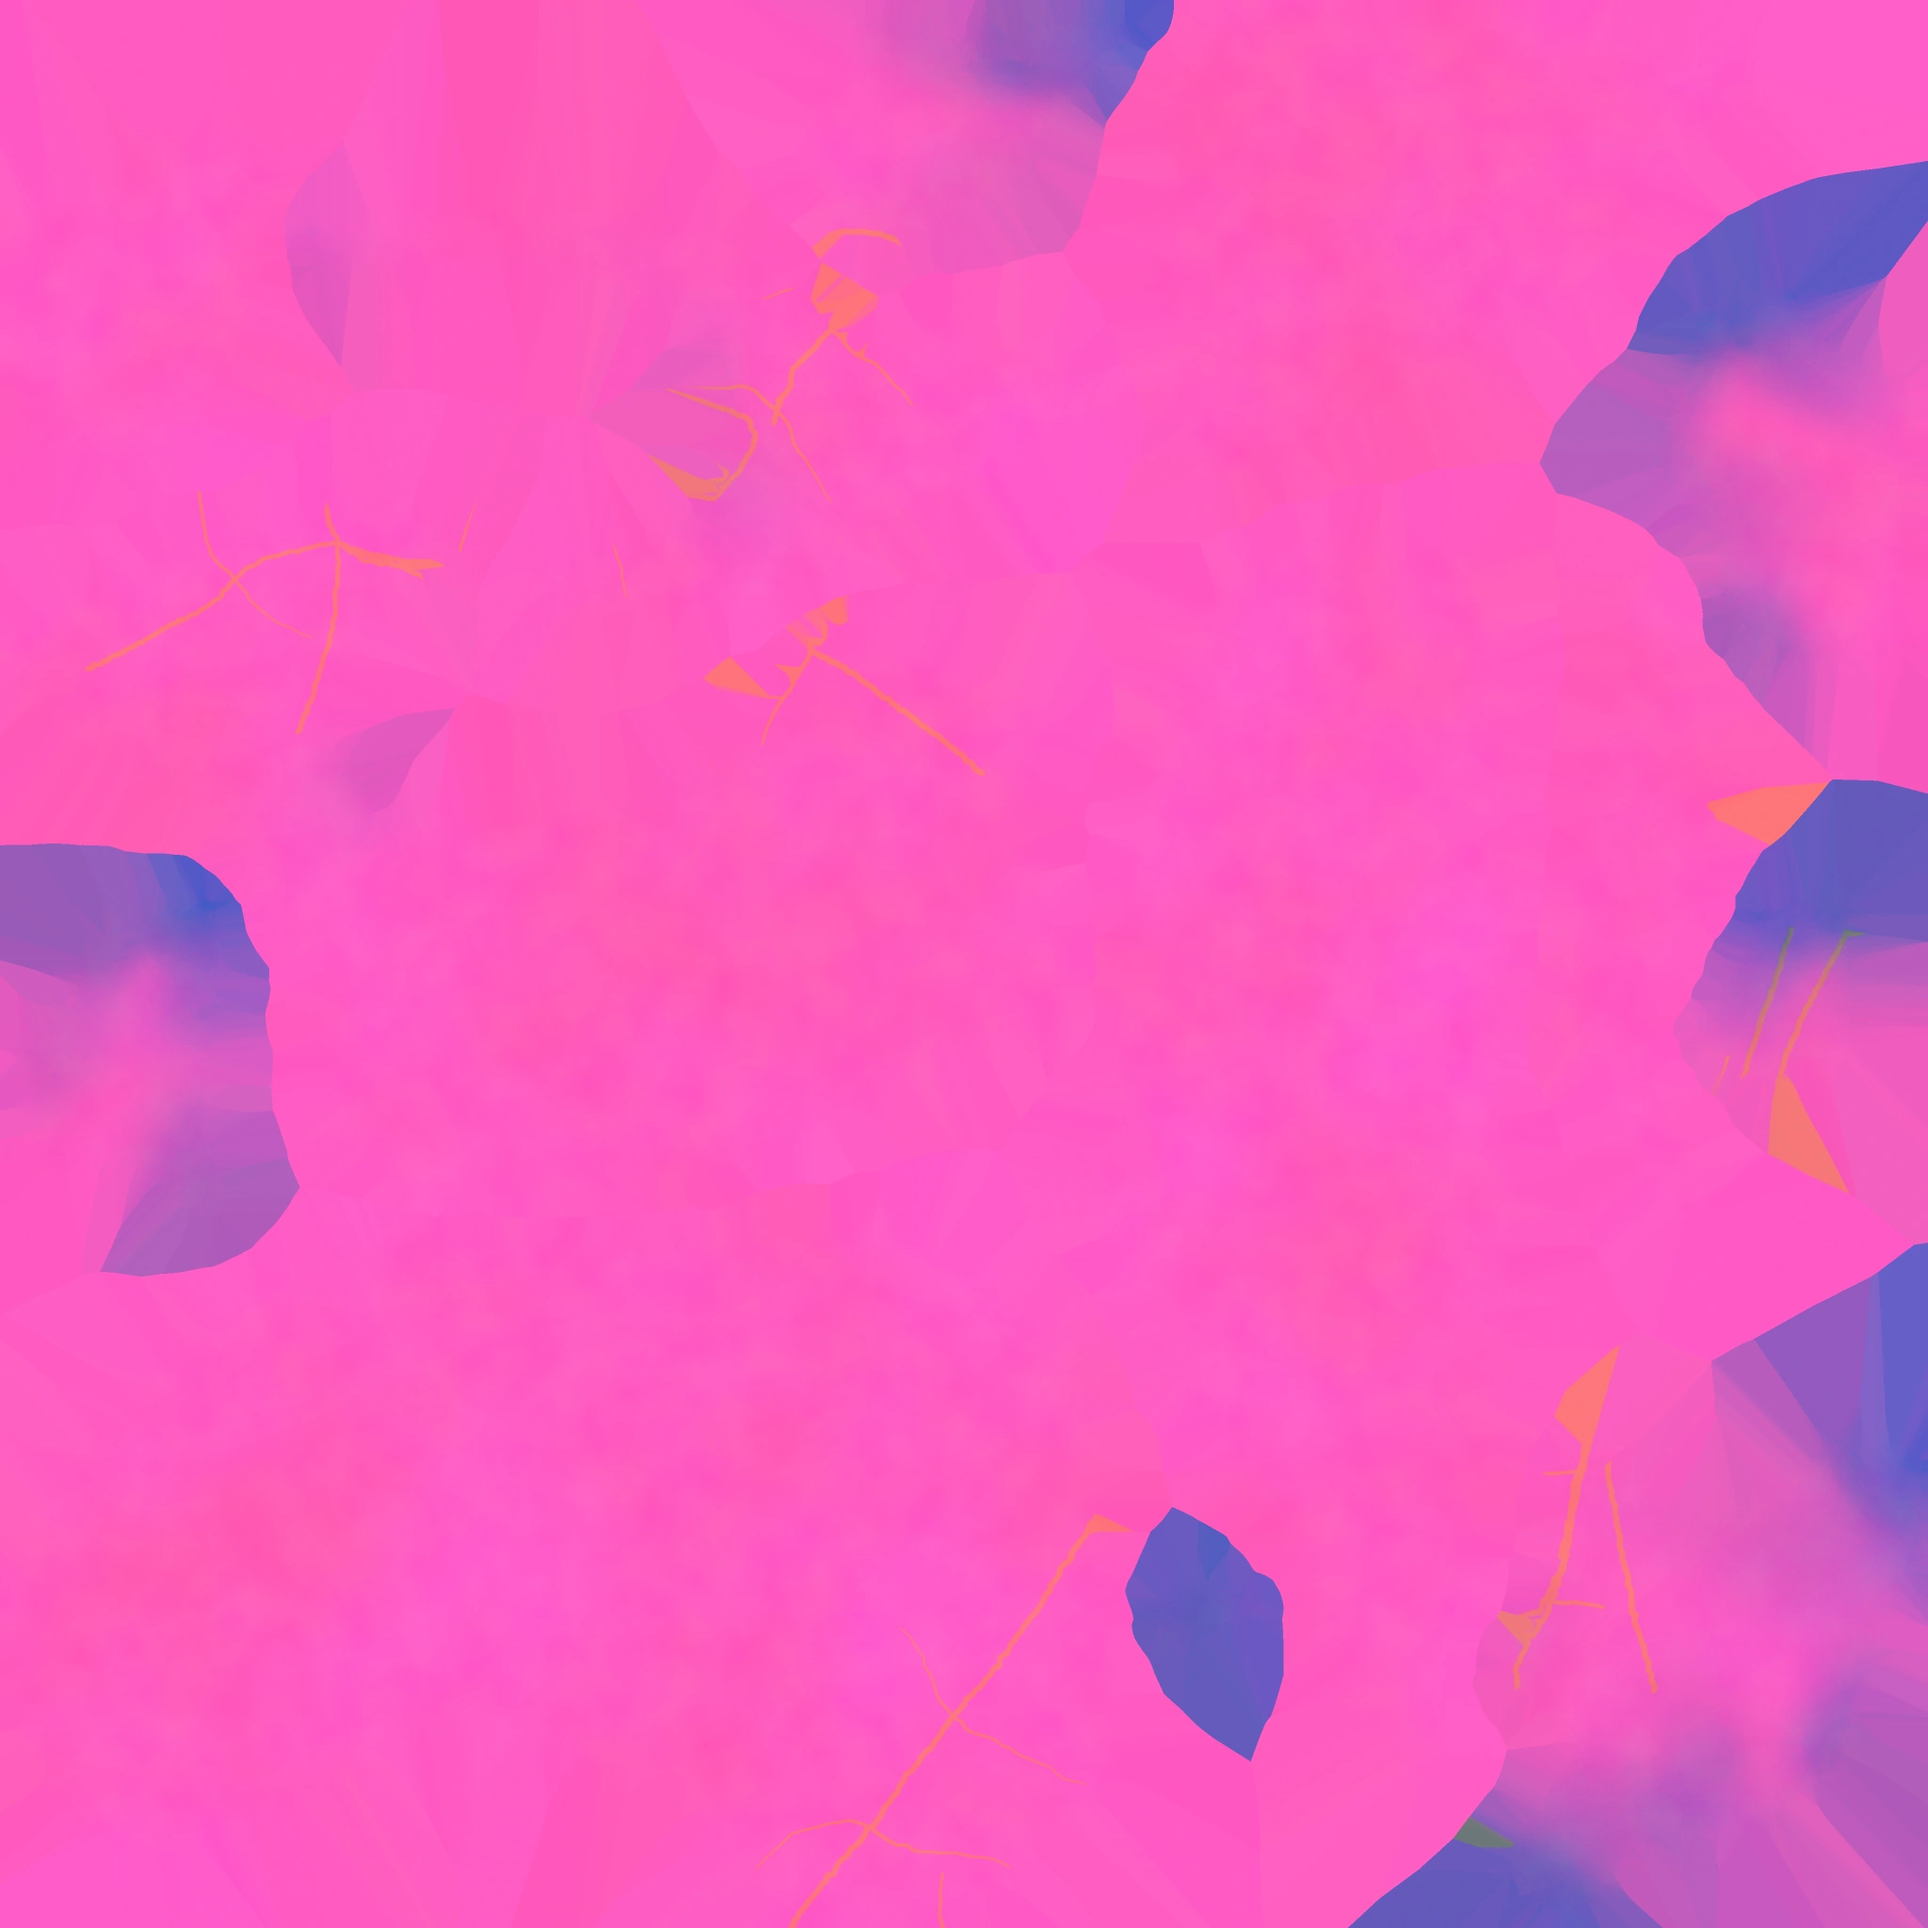
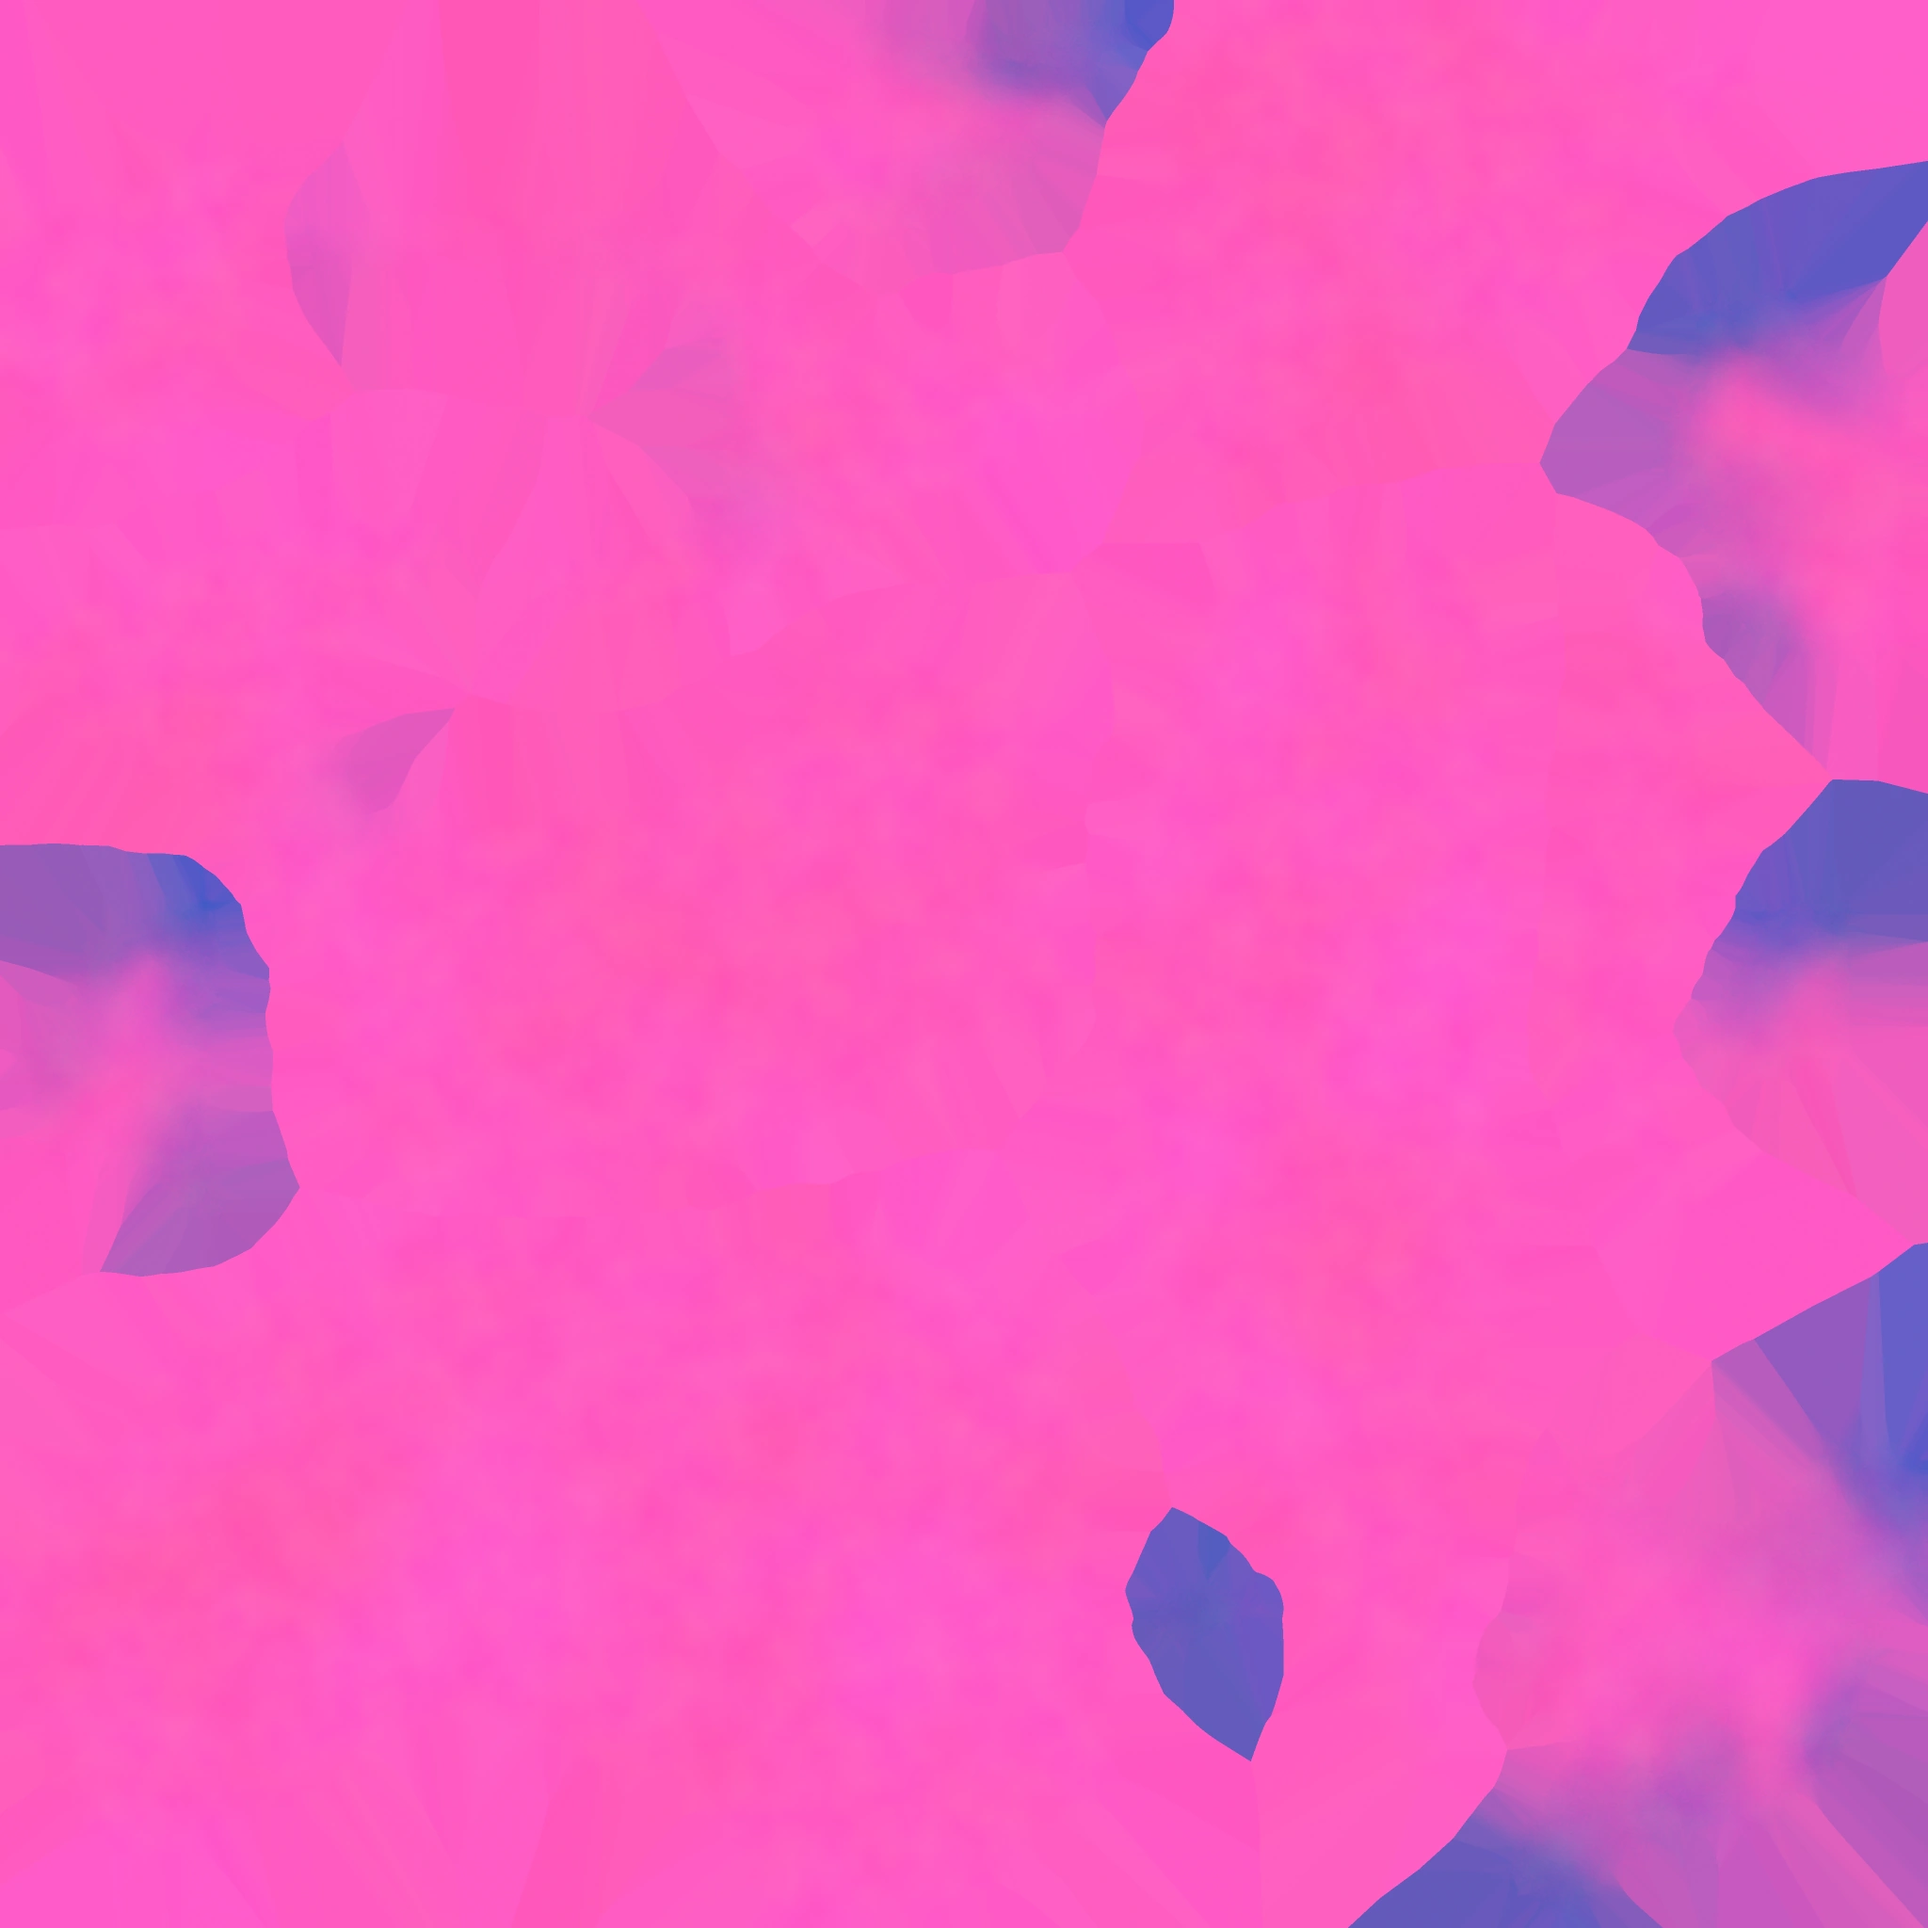
Task 8: no surface vessels on the kidneys
The faint capsular vessels grown from the hilum (organs45.py) are removed; both kidney map sets re-baked (UVs unchanged).

Claude-Session: https://claude.ai/code/session_01NbmsN7L12bzQ6FyRe6mrkM

diff --git a/pipeline/organs45.py b/pipeline/organs45.py
@@ -4,7 +4,7 @@ duodenum, spleen, pancreas, kidneys and oesophagus.
 
     python3 pipeline/organs45.py stomach      # report the arcades / vessel network (lengths, counts) without baking
 
-Surface vessels (stomach, duodenum, oesophagus; faint capsular vessels on the kidneys) are grown on each organ's own mesh:
+Surface vessels (stomach, duodenum, oesophagus; v46: none on the kidneys) are grown on each organ's own mesh:
   arcades   stomach: the gastroepiploic arcade along the greater curvature and the left/right gastric arcade along the
             lesser curvature, painted on the gastric surface (the omentum is not rendered). duodenum: the pancreatico-
             duodenal arcade along the medial (concave) border. oesophagus: a few longitudinal trunks.
@@ -158,13 +158,7 @@ def vessels_for(organ, V, F, seed=45):
             aa = a + wig
             line = cen + (u * np.cos(aa)[:, None] + w * np.sin(aa)[:, None]) * 0.3; line, _ = surf.project(line); arc.append((line[1:-1], 0.42))
         return grow(surf, arc, rng, spacing=16.0, length=(6, 12), r0=0.28, avoid=2.2, split=9.0, angle=45)   # v46: sparser, shorter (were 9 mm / 8–18 mm / 0.32)
-    if organ in ('kidney_left', 'kidney_right'):   # faint capsular vessels from the hilum
-        c = V.mean(0); h = LAND['head'] if organ == 'kidney_right' else np.array([0.5, -0.7, -0.3])
-        hil = V[np.argmin(np.linalg.norm(V - (c + 0.6 * (h - c) / np.linalg.norm(h - c)), axis=1))]
-        lines = []
-        for k in range(7):
-            q = V[rng.integers(len(V))]; pts = np.linspace(hil, q, 12); pts, _ = surf.project(pts); lines.append((pts, 0.30))
-        return grow(surf, lines, rng, spacing=14.0, length=(8, 16), r0=0.20, avoid=2.0, split=6.0, angle=40)
+    # v46: the kidneys carry no surface vessels (v45 grew faint capsular vessels from the hilum)
     return []
 
 
